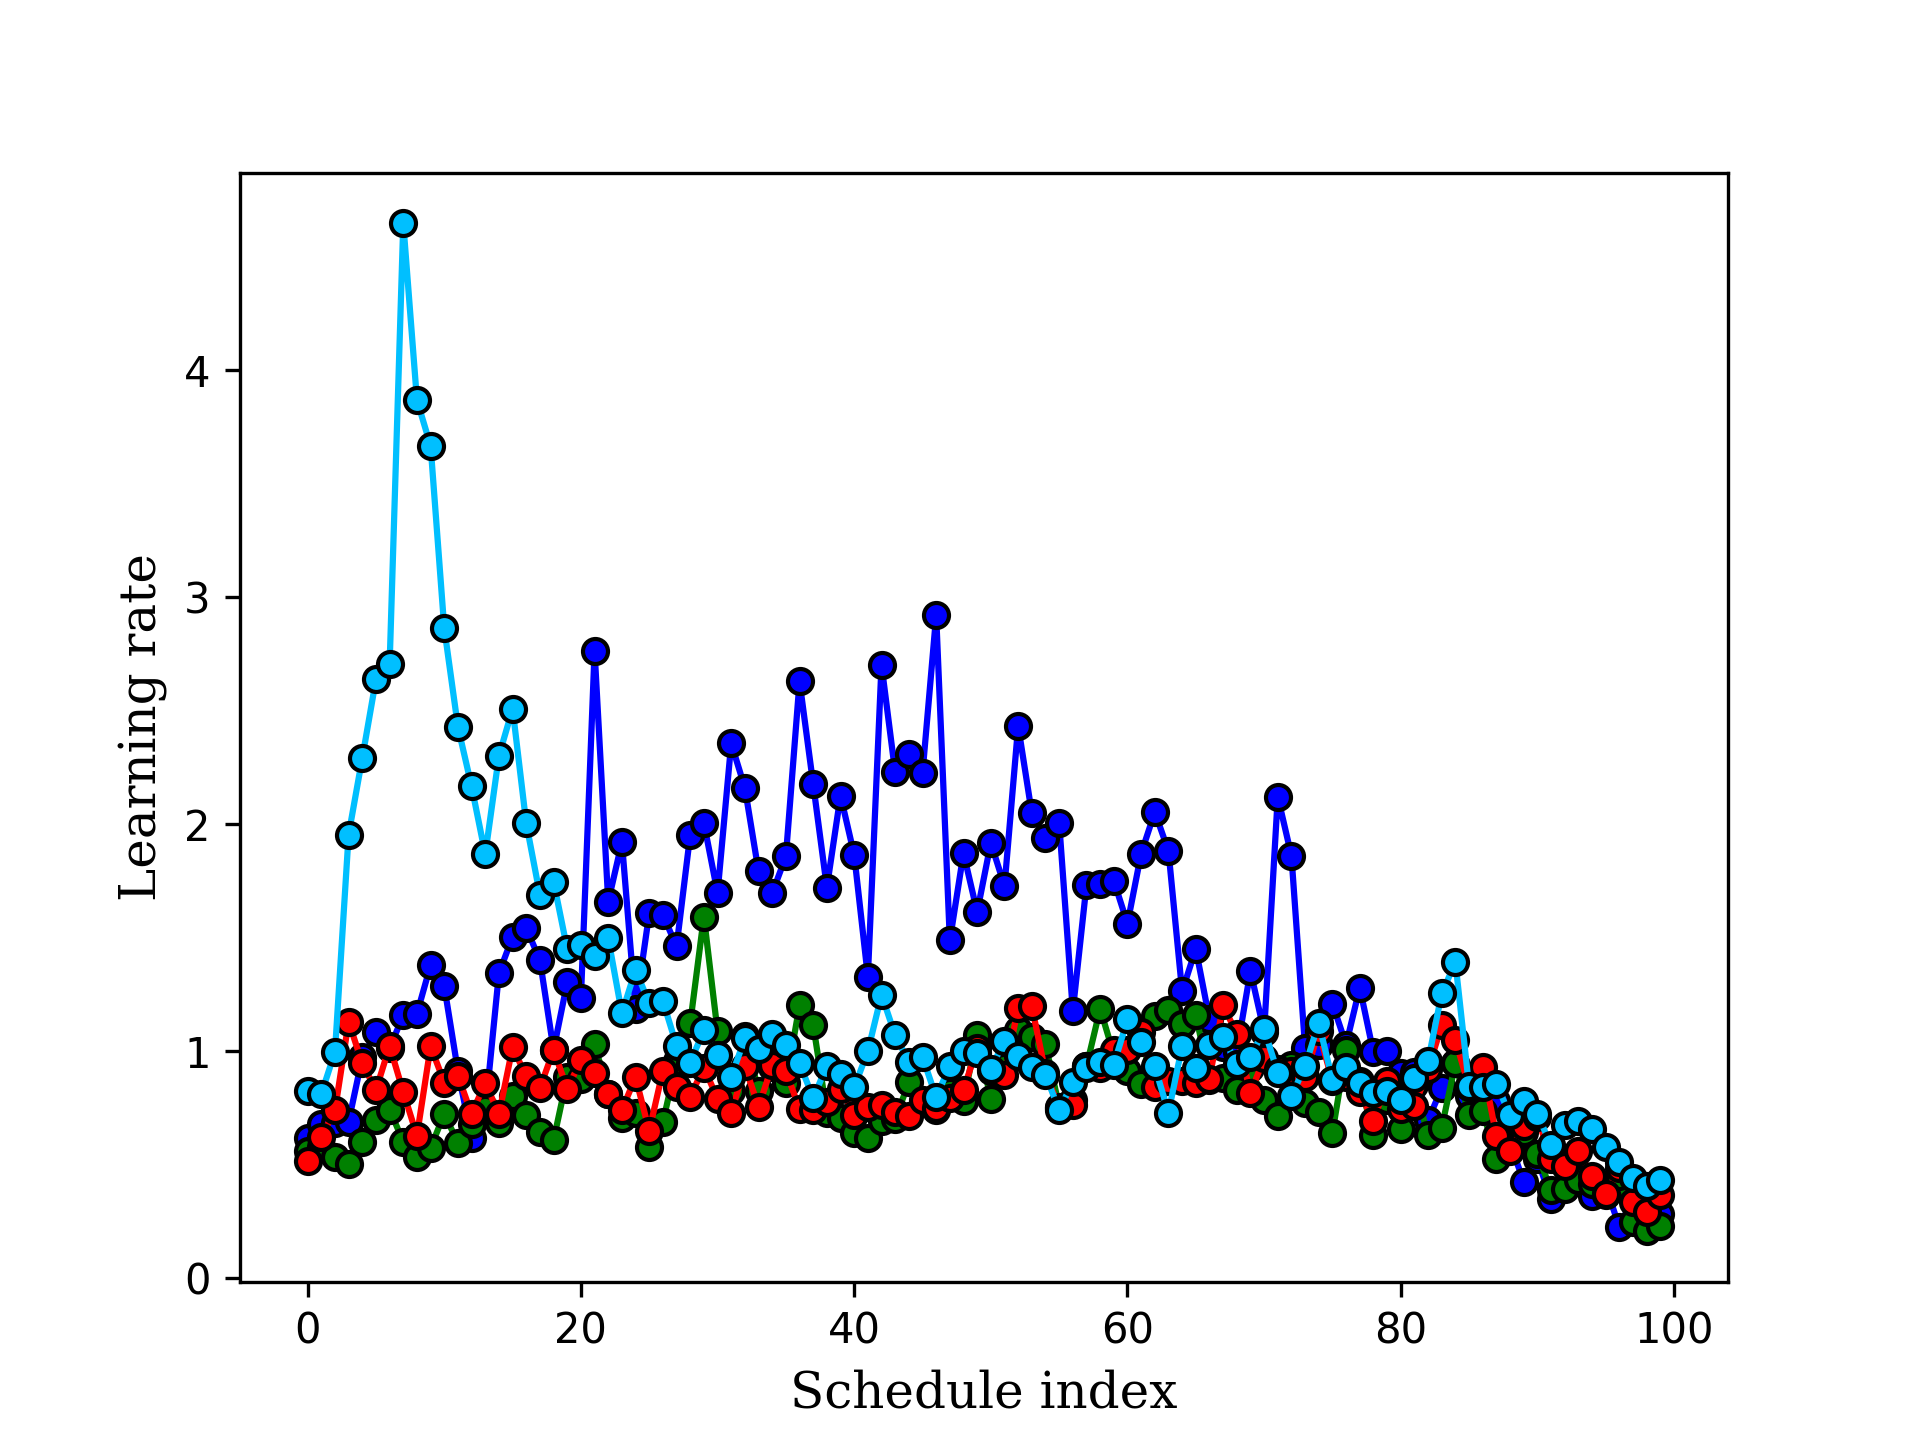
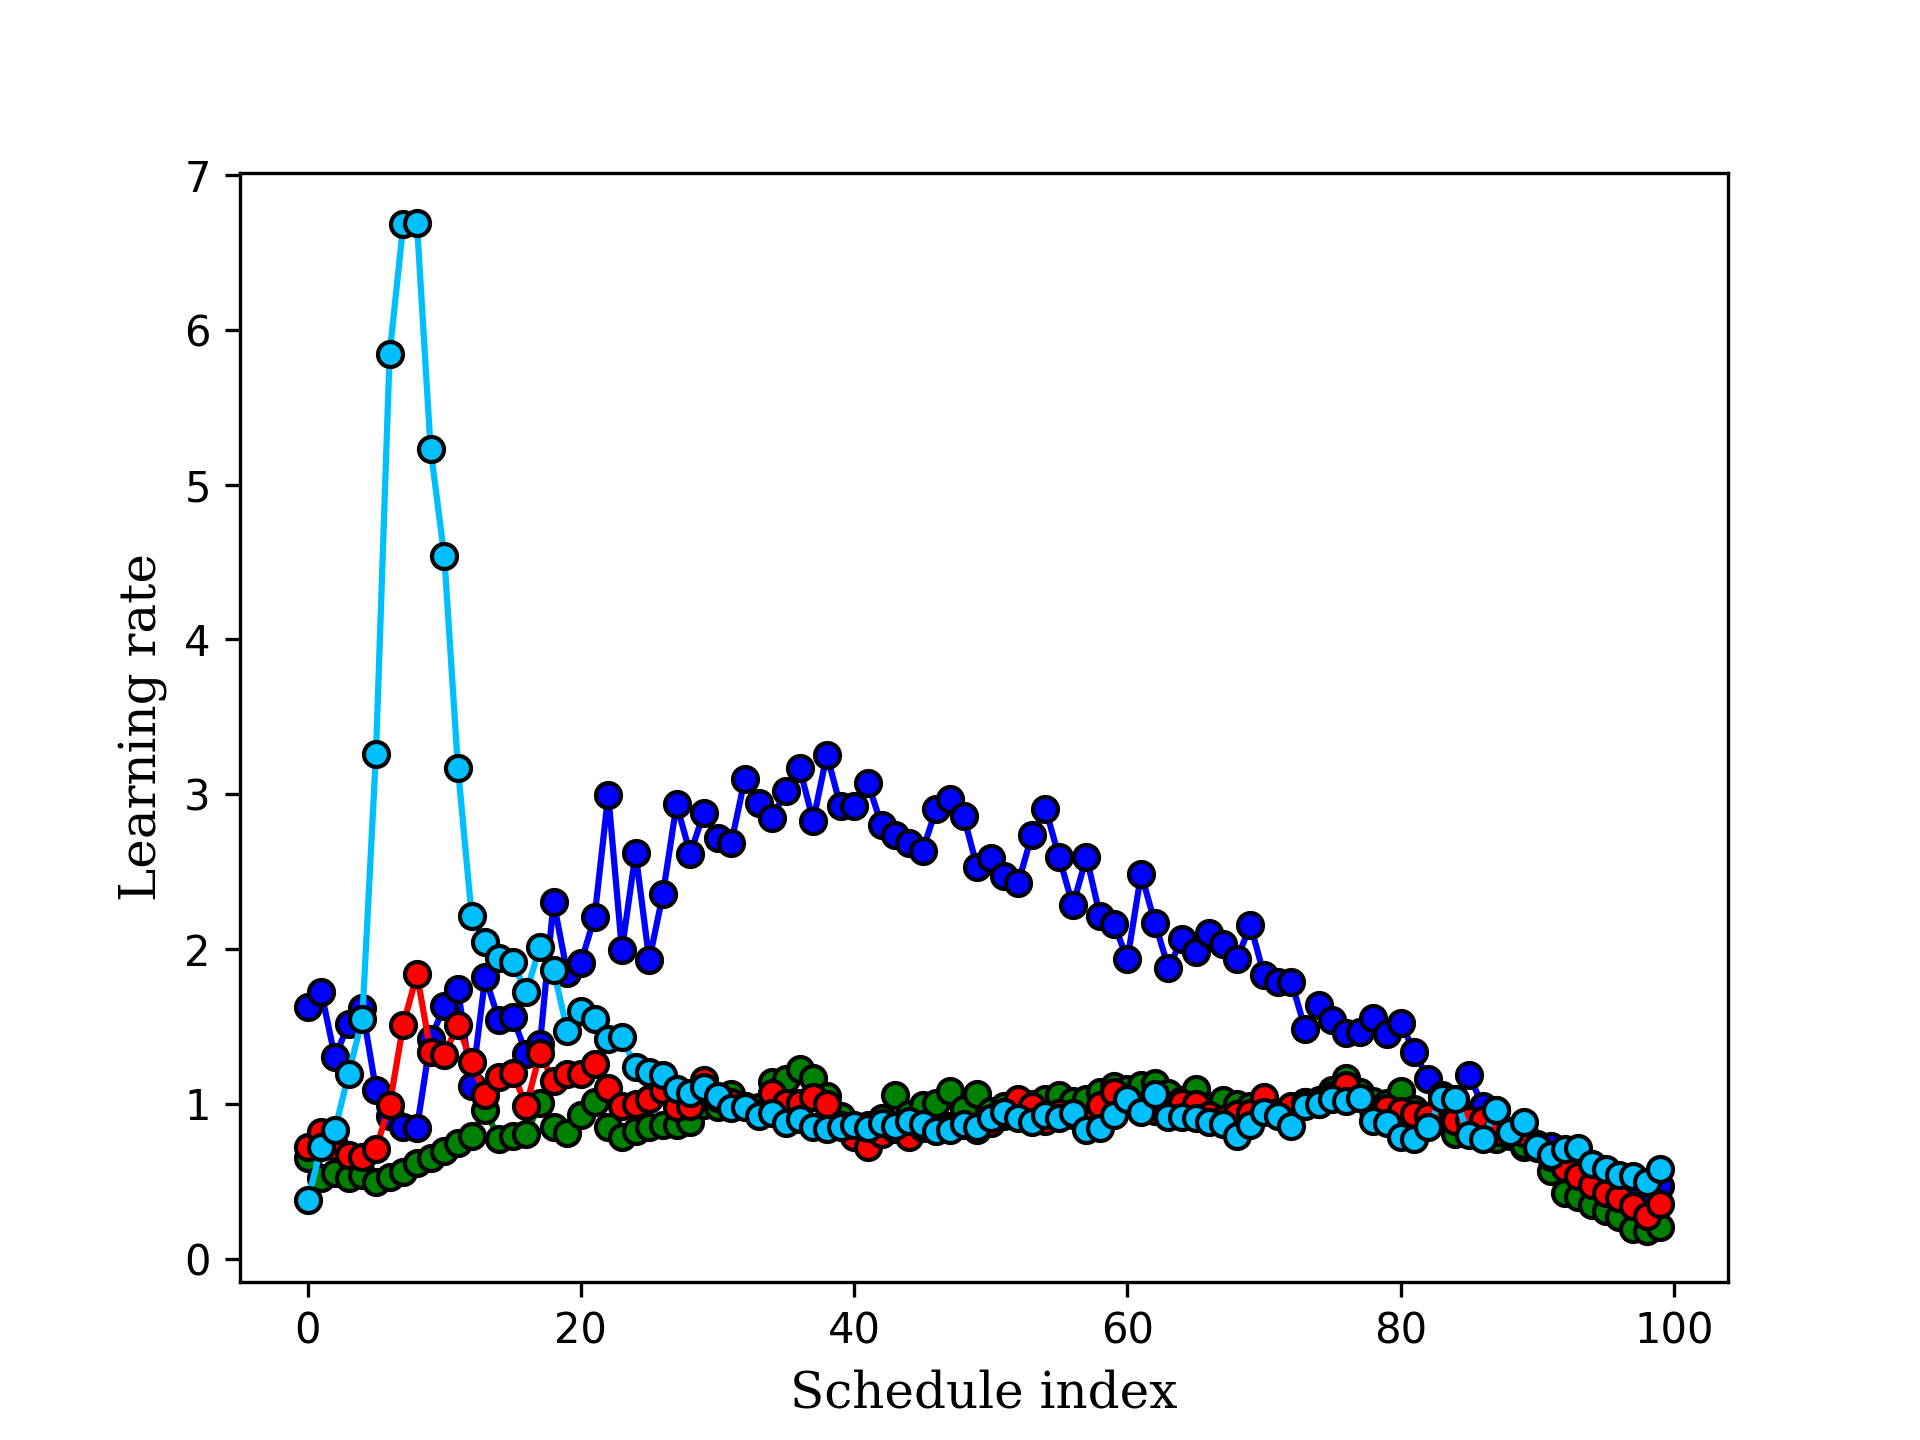
Modified starting dw with wrong loss

diff --git a/learning_rate.py b/learning_rate.py
@@ -52,6 +52,10 @@ fixed_hyperparams = VectorParser()
 fixed_hyperparams['log_L2_reg'] = np.full(N_weight_types, init_log_L2_reg)
 hypergrads = VectorParser()
 
+loss_final = []
+def f_loss(w):
+    return loss_fun(w, **train_data)
+
 def hyper_gradient(hyperparams_vec, i_hyper):
     '''
     This function takes the hyperparameter vector, the meta iteration and outputs the hypergradient 
@@ -69,23 +73,24 @@ def hyper_gradient(hyperparams_vec, i_hyper):
         idxs = rs.randint(N_train, size=batch_size)
         return loss_fun(w, train_data['X'][idxs], train_data['T'][idxs], L2_reg)
 
-    def training_set(i_hyper):
-        idx_set = set()
-        for i in range(100):
-            rs = RandomState((seed, i_hyper, i))
-            batch = rs.randint(N_train, size=batch_size)
-            idx_set.update(batch)
-
-        return list(idx_set)
+    #def training_set(i_hyper):
+    #    idx_set = set()
+    #    for i in range(100):
+    #        rs = RandomState((seed, i_hyper, i))
+    #        batch = rs.randint(N_train, size=batch_size)
+    #        idx_set.update(batch)
+#
+    #    return list(idx_set)
 
     hyper_list = [W0, alphas, gammas]
-    res = RMD_parsed(parser, hyper_list, indexed_loss_fun, training_set(i_hyper) )
+    res = RMD_parsed(parser, hyper_list, indexed_loss_fun, f_loss) # al posto di training_set e all_idxs
     #hypergrads = hyperparams.new_vect(hyperparams.vect)
     weights_grad = parser.new_vect(W0 * res[0])
     hypergrads['log_param_scale'] = [np.sum(weights_grad[name])
                                      for name in weights_grad.names]
     hypergrads['log_alphas']      =  res[1] * alphas
     hypergrads['invlogit_gammas'] = (res[2] * d_logit(cur_hyperparams['invlogit_gammas']))
+    loss_final.append(f_loss(res[3]))
 
     return hypergrads.vect
 
@@ -112,3 +117,14 @@ plt.xlabel('Schedule index', fontdict={'family': 'serif', 'size': 12})
 plt.ylabel('Learning rate', fontdict={'family': 'serif', 'size': 12})
 plt.savefig(alphabeta_schedule, dpi=300)
 plt.close()
+
+
+meta_training_loss = '/home/marco/Documenti/Progetto_DL/results_learning_rate/meta_training_loss.png'
+plt.plot(loss_final, marker = 'o', color = 'blue', markeredgecolor = 'black')
+plt.xlabel('meta iteration', fontdict={'family': 'serif', 'size': 12})
+plt.ylabel('loss', fontdict={'family': 'serif', 'size': 12})
+plt.savefig(meta_training_loss, dpi=300)
+plt.close()
+
+
+

diff --git a/hyperoptimizer.py b/hyperoptimizer.py
@@ -92,7 +92,8 @@ def load_alpha(parser, alpha):
         cur_alpha[val] = alpha[i]
     return cur_alpha
 
-def RMD_parsed(parser, hyper_vect, loss, indices):
+#rimosso indices
+def RMD_parsed(parser, hyper_vect, loss, f):
     
     w0, alphas, gammas = hyper_vect
     W, V = ExactRep(w0), ExactRep(np.zeros(w0.size))
@@ -108,7 +109,8 @@ def RMD_parsed(parser, hyper_vect, loss, indices):
         W.add(cur_alpha_vect * V.val)
 
     w_final = W.val
-    d_w = L_grad(W.val, indices) #Bisogna trovare il modo di passare tutti gli indici su cui è stata addestrata
+    f_grad = grad(f)    #f corrisponde alla validation loss del paper, non nostro caso è la training loss
+    d_w = f_grad(W.val) #Questa la calcolano su tutto il training set, quindi non devo fornire indici
 
     d_alphas, d_gammas = np.zeros(alphas.shape), np.zeros(gammas.shape)
     d_v = np.zeros(d_w.shape)
